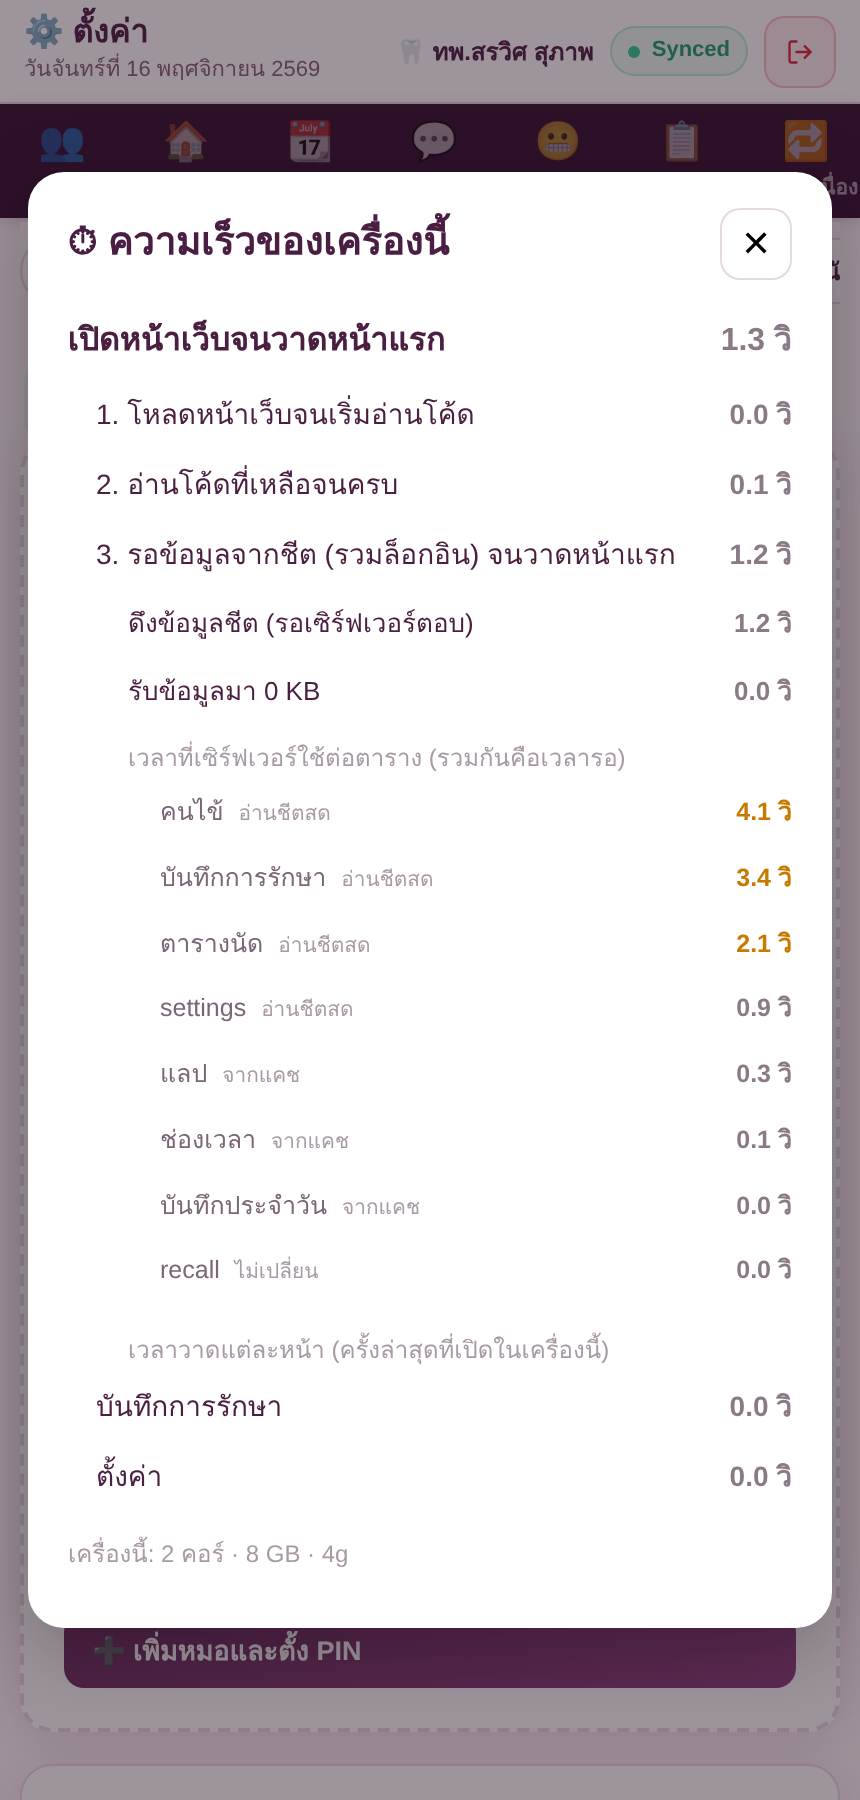
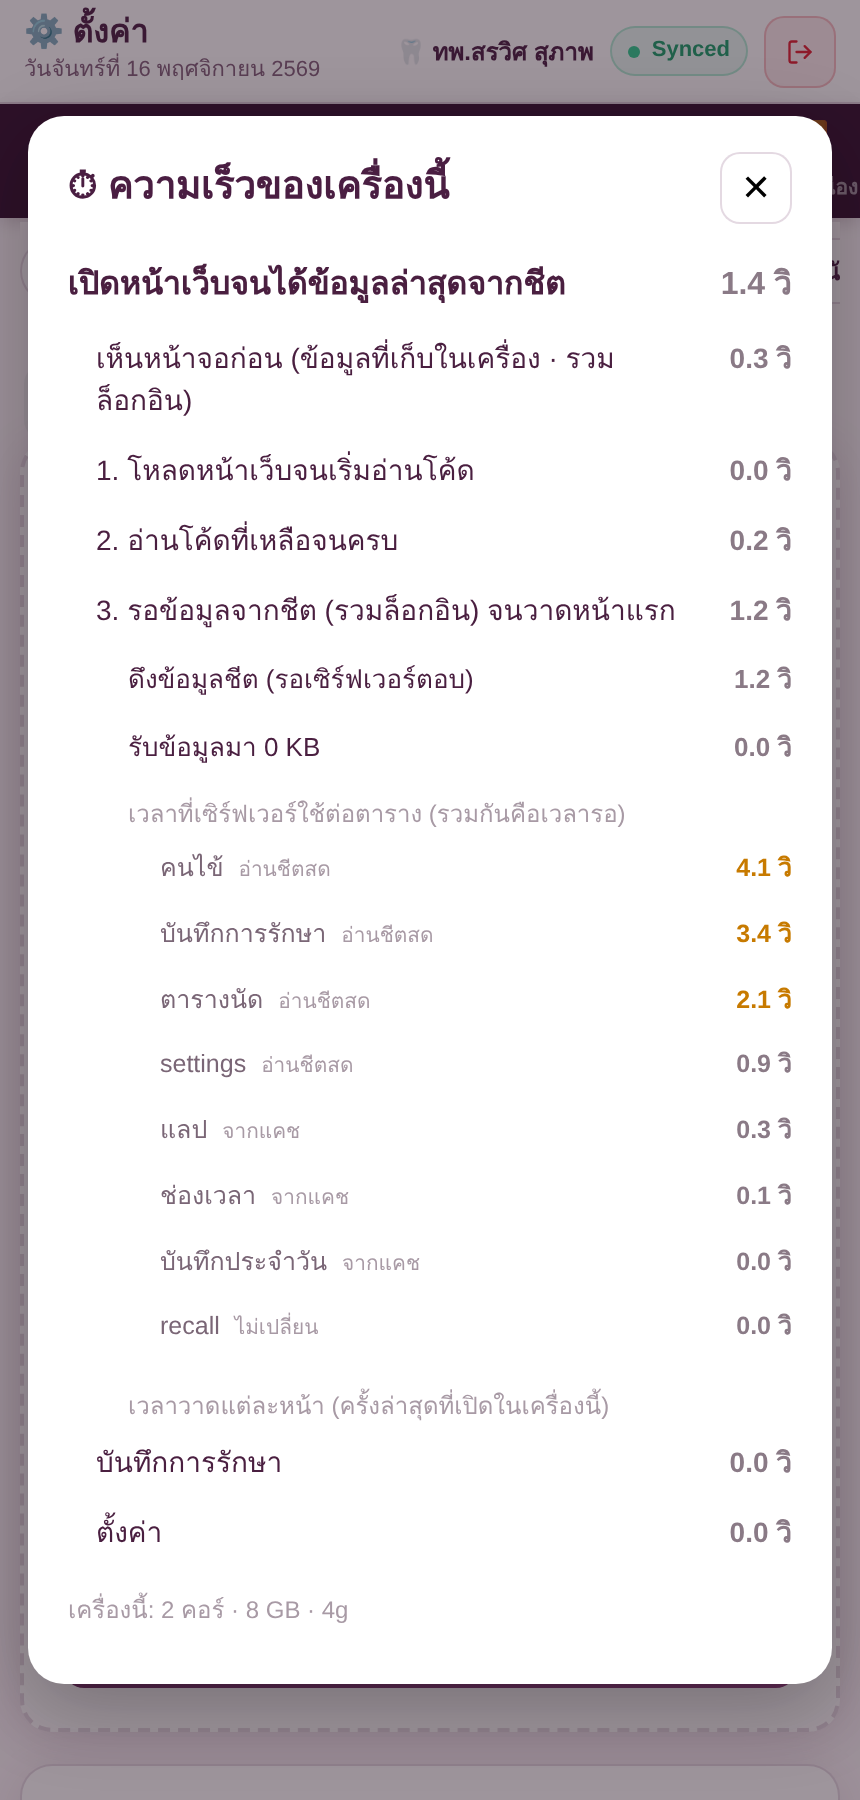
โหลดข้อมูลเร็วขึ้น: cache getAll 6 ชม. + อุ่น cache ทุก 10 นาที + อ่านชีตครั้งเดียวต่อตาราง + onEdit ล้าง cache เมื่อแก้มือ
Claude-Session: https://claude.ai/code/session_01SGGozLrwpXbBdAAZr4urWB

diff --git a/index.html b/index.html
@@ -3268,7 +3268,7 @@ function verifyLogin(){
 //  START APP
 // ============================================================
 function startApp(){
-  try{ __BLP.mark('appShown'); }catch(e){}
+  try{ __BLP.mark('appShown'); requestAnimationFrame(function(){ requestAnimationFrame(function(){ __BLP.mark('localPaint'); }); }); }catch(e){}
   loadLocal();
   setTimeout(()=>{ try{ loadLineHns(true); }catch(e){} }, 600);
   // Save session so refresh doesn't log out
@@ -13926,7 +13926,8 @@ function perfHtml_(){
   const paint = m.firstPaint!=null ? m.firstPaint : null;
   let h='';
   if(paint==null){ h+='<p class="perf-note">หน้าแรกยังวาดไม่เสร็จ — เปิดใหม่อีกครั้งหลังข้อมูลโหลดแล้ว</p>'; }
-  else h+=perfRow_('เปิดหน้าเว็บจนวาดหน้าแรก', paint, 0);
+  else h+=perfRow_('เปิดหน้าเว็บจนได้ข้อมูลล่าสุดจากชีต', paint, 0);
+  if(m.localPaint!=null) h+=perfRow_('เห็นหน้าจอก่อน (ข้อมูลที่เก็บในเครื่อง · รวมล็อกอิน)', m.localPaint, 1);
   if(htmlEnd!=null) h+=perfRow_('1. โหลดหน้าเว็บจนเริ่มอ่านโค้ด', htmlEnd, 1);
   if(htmlEnd!=null && scripts!=null) h+=perfRow_('2. อ่านโค้ดที่เหลือจนครบ', scripts-htmlEnd, 1);
   if(scripts!=null && paint!=null){
